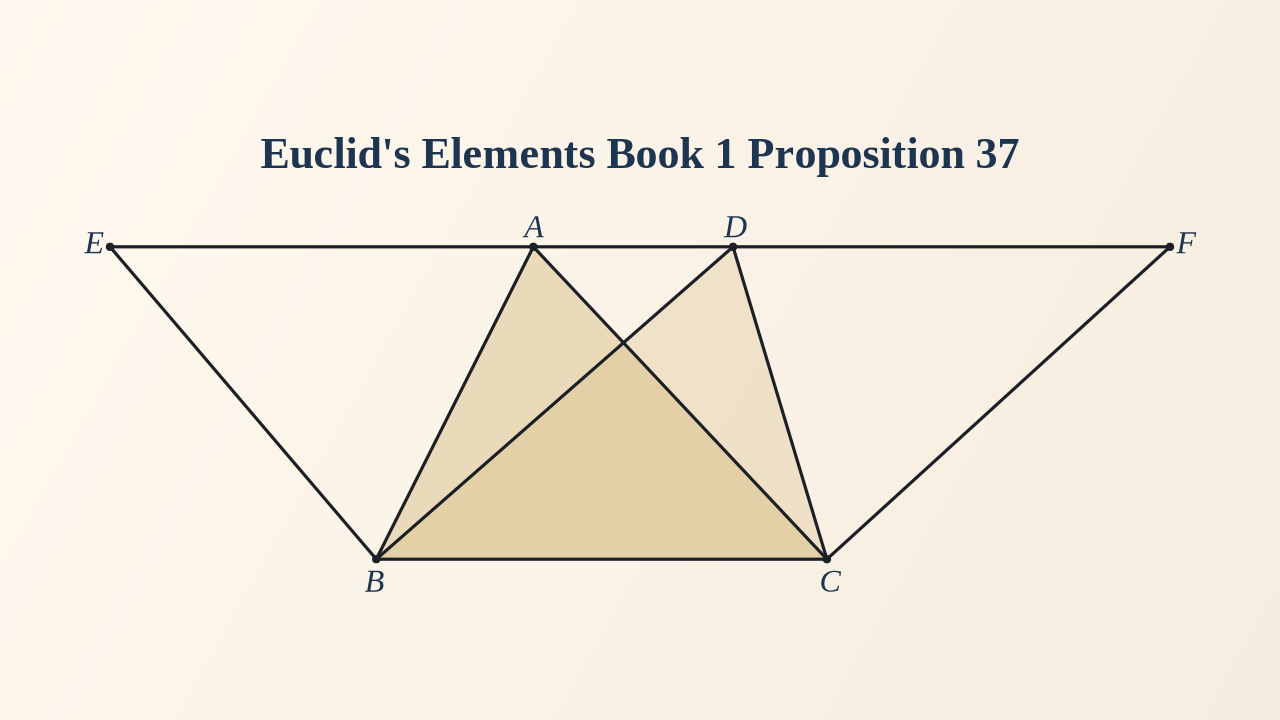
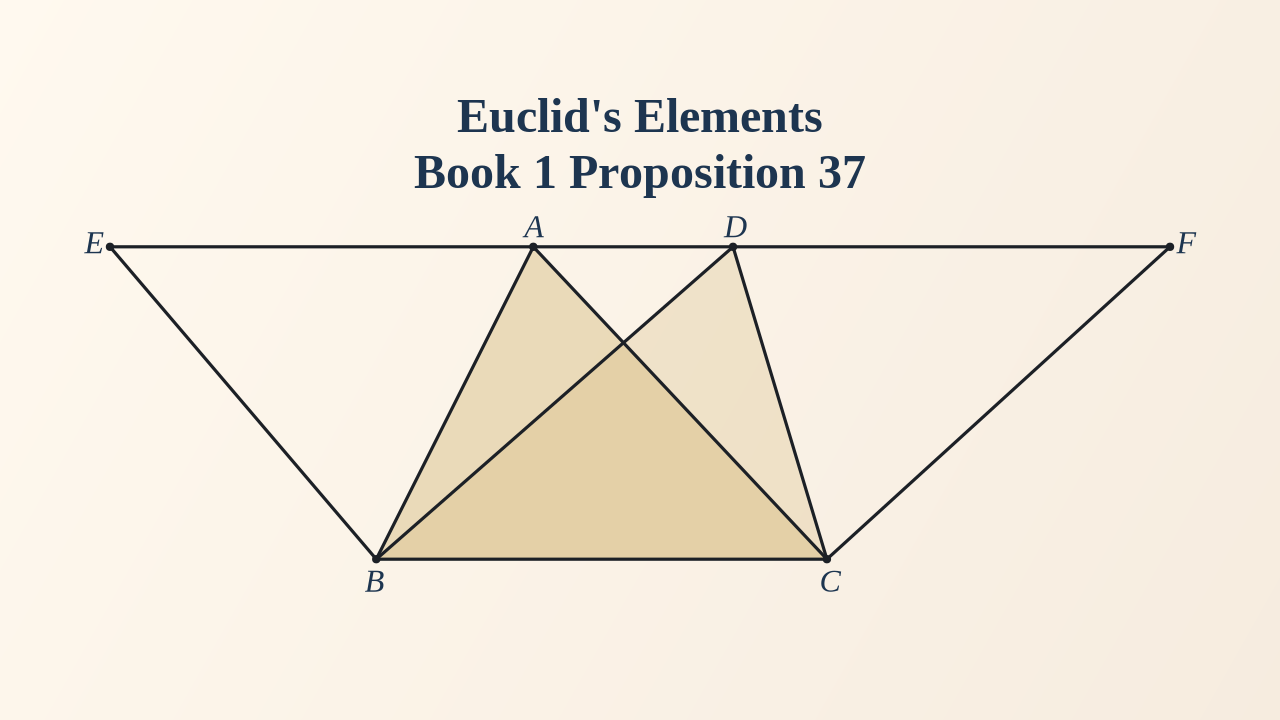
Restore the thumbnail header to two equal-size lines.
Both lines sit close over the centered figure.

Changed region(s): [[0.1875, 0.1222, 0.8125, 0.275]]

diff --git a/scripts/youtube_book1_prop37.py b/scripts/youtube_book1_prop37.py
@@ -1,9 +1,10 @@
 #!/usr/bin/env python3
 """YouTube thumbnail for the Book I Proposition 37 demo.
 
-1280×720. Cream plate, same family as the LinkedIn card. One header line —
-Euclid's Elements Book 1 Proposition 37 — sits close over the Fitzpatrick
-figure: triangles ABC and DBC on the same base BC, between the parallels EF and BC.
+1280×720. Cream plate, same family as the LinkedIn card. Two header lines,
+same size — Euclid's Elements, then Book 1 Proposition 37 — sit close over the
+Fitzpatrick figure: triangles ABC and DBC on the same base BC, between the
+parallels EF and BC.
 """
 
 from __future__ import annotations
@@ -115,16 +116,20 @@ def main():
     cr.set_source(pat)
     cr.paint()
 
-    # One header line, every word the same size, close over the figure.
-    # One shared baseline so a descending p does not lift "Proposition".
-    title = "Euclid's Elements Book 1 Proposition 37"
-    title_size = 44
-    font(cr, title_size, bold=True)
+    # Two header lines, every word the same size, close over the figure.
+    # One shared baseline per line so a descending p does not lift "Proposition".
+    title = "Euclid's Elements"
+    subtitle = "Book 1 Proposition 37"
+    size = 48
+    font(cr, size, bold=True)
     title_w = cr.text_extents(title).x_advance
+    sub_w = cr.text_extents(subtitle).x_advance
     cr.set_source_rgb(*rgb(NAVY))
-    font(cr, title_size, bold=True)
-    cr.move_to((W - title_w) / 2, 168)
+    font(cr, size, bold=True)
+    cr.move_to((W - title_w) / 2, 132)
     cr.show_text(title)
+    cr.move_to((W - sub_w) / 2, 188)
+    cr.show_text(subtitle)
 
     # Figure stays centered, as it was under the earlier one-line header.
     xs = [p[0] for p in RAW.values()]
